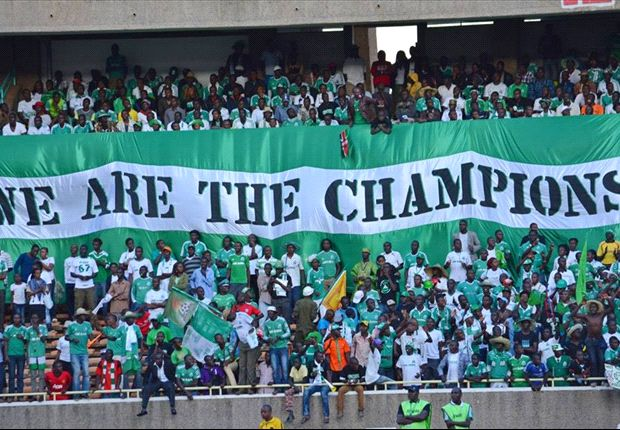
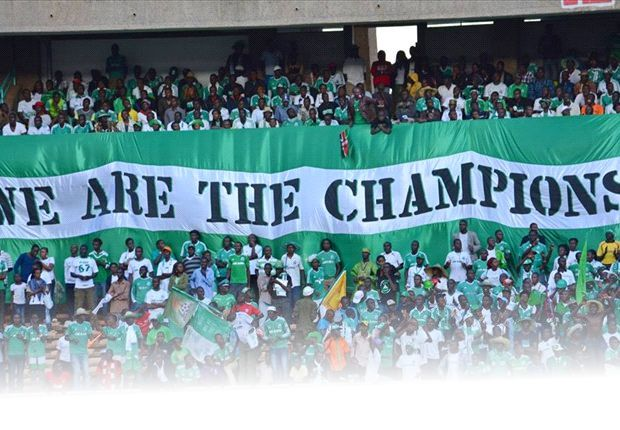
check

diff --git a/check.html b/check.html
@@ -101,7 +101,7 @@ Personal Details
 
 <input name="first_name_en" id="first_name_en" type="text" class="textfield" required placeholder="First Name">
 <input name="last_name_en" id="last_name_en" type="text" class="textfield" required placeholder="Last Name">
-<input name="email_en" id="email_en" type="email" class="textfield" placeholder="E-Mail">
+<input name="email_en" id="email_en" type="email" class="textfield" required placeholder="E-Mail">
 <input name="phone_en" id="phone_en" type="tel" class="textfield" required placeholder="Phone">
 
 <button id="next1">Next</button>

diff --git a/main.css b/main.css
@@ -54,7 +54,7 @@ h1 {
 	text-align: center;
 }
 #contribution {
-	background-color: #000;
+	background-color: #FFF;
 	position: absolute;
 	z-index: 10;
 	height: 100%;
@@ -64,7 +64,7 @@ h1 {
 	font-size: 14px;
 	background-image: url(img/GOR-MAHIA-CHAMPIONS.jpg);
 	background-repeat: no-repeat;
-	background-size: cover;
+	background-size: contain;
 }
 
 
